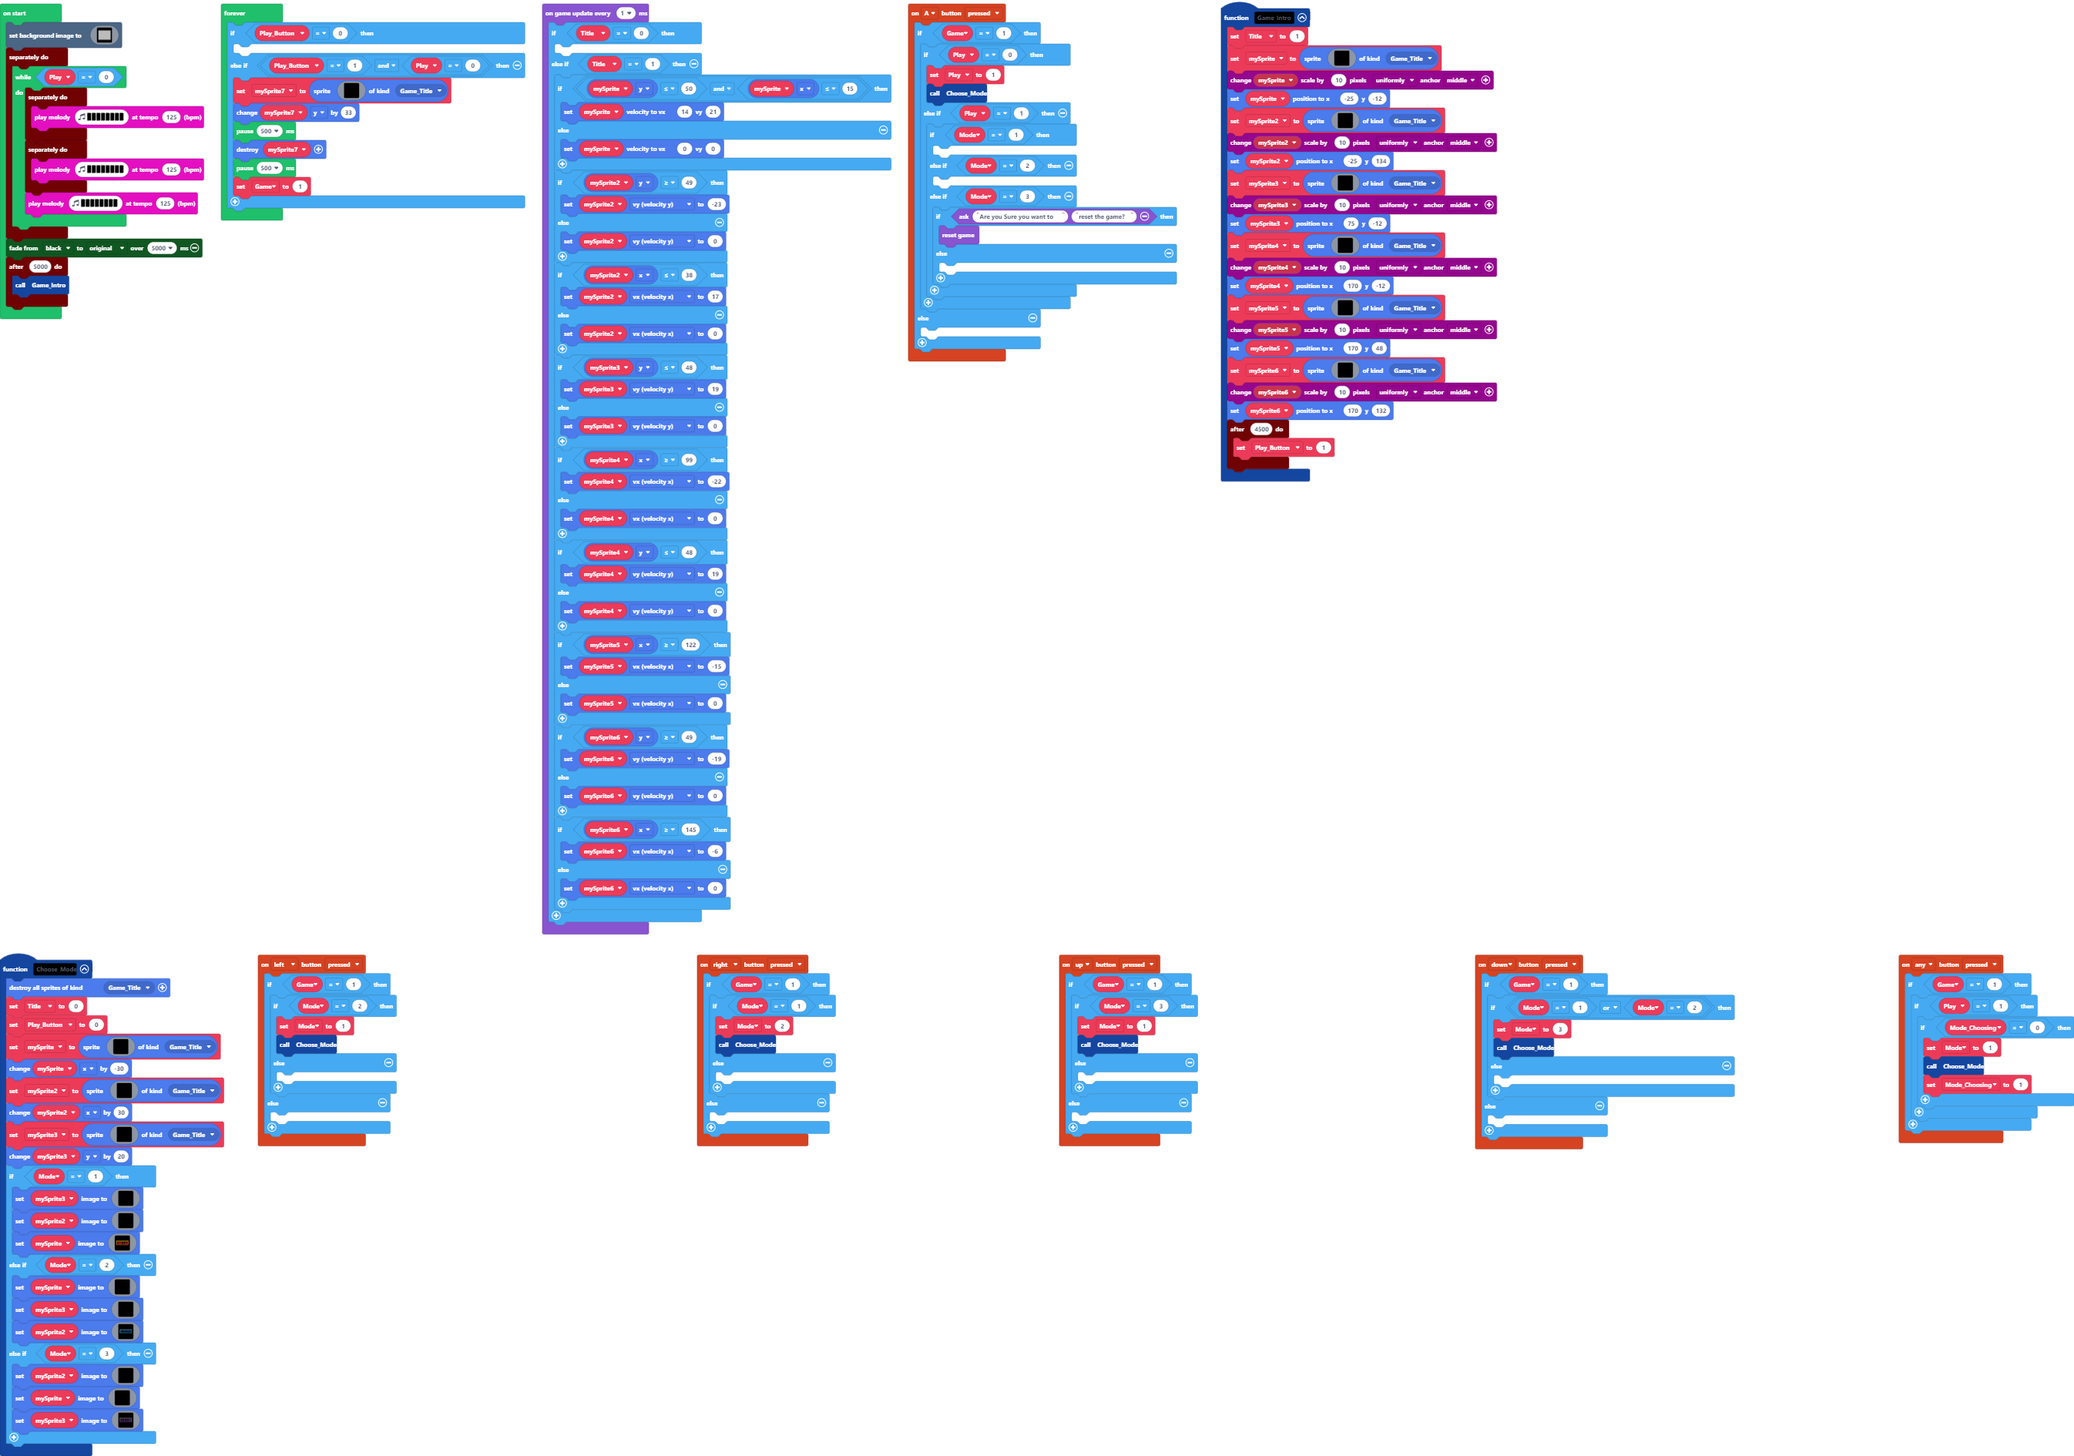
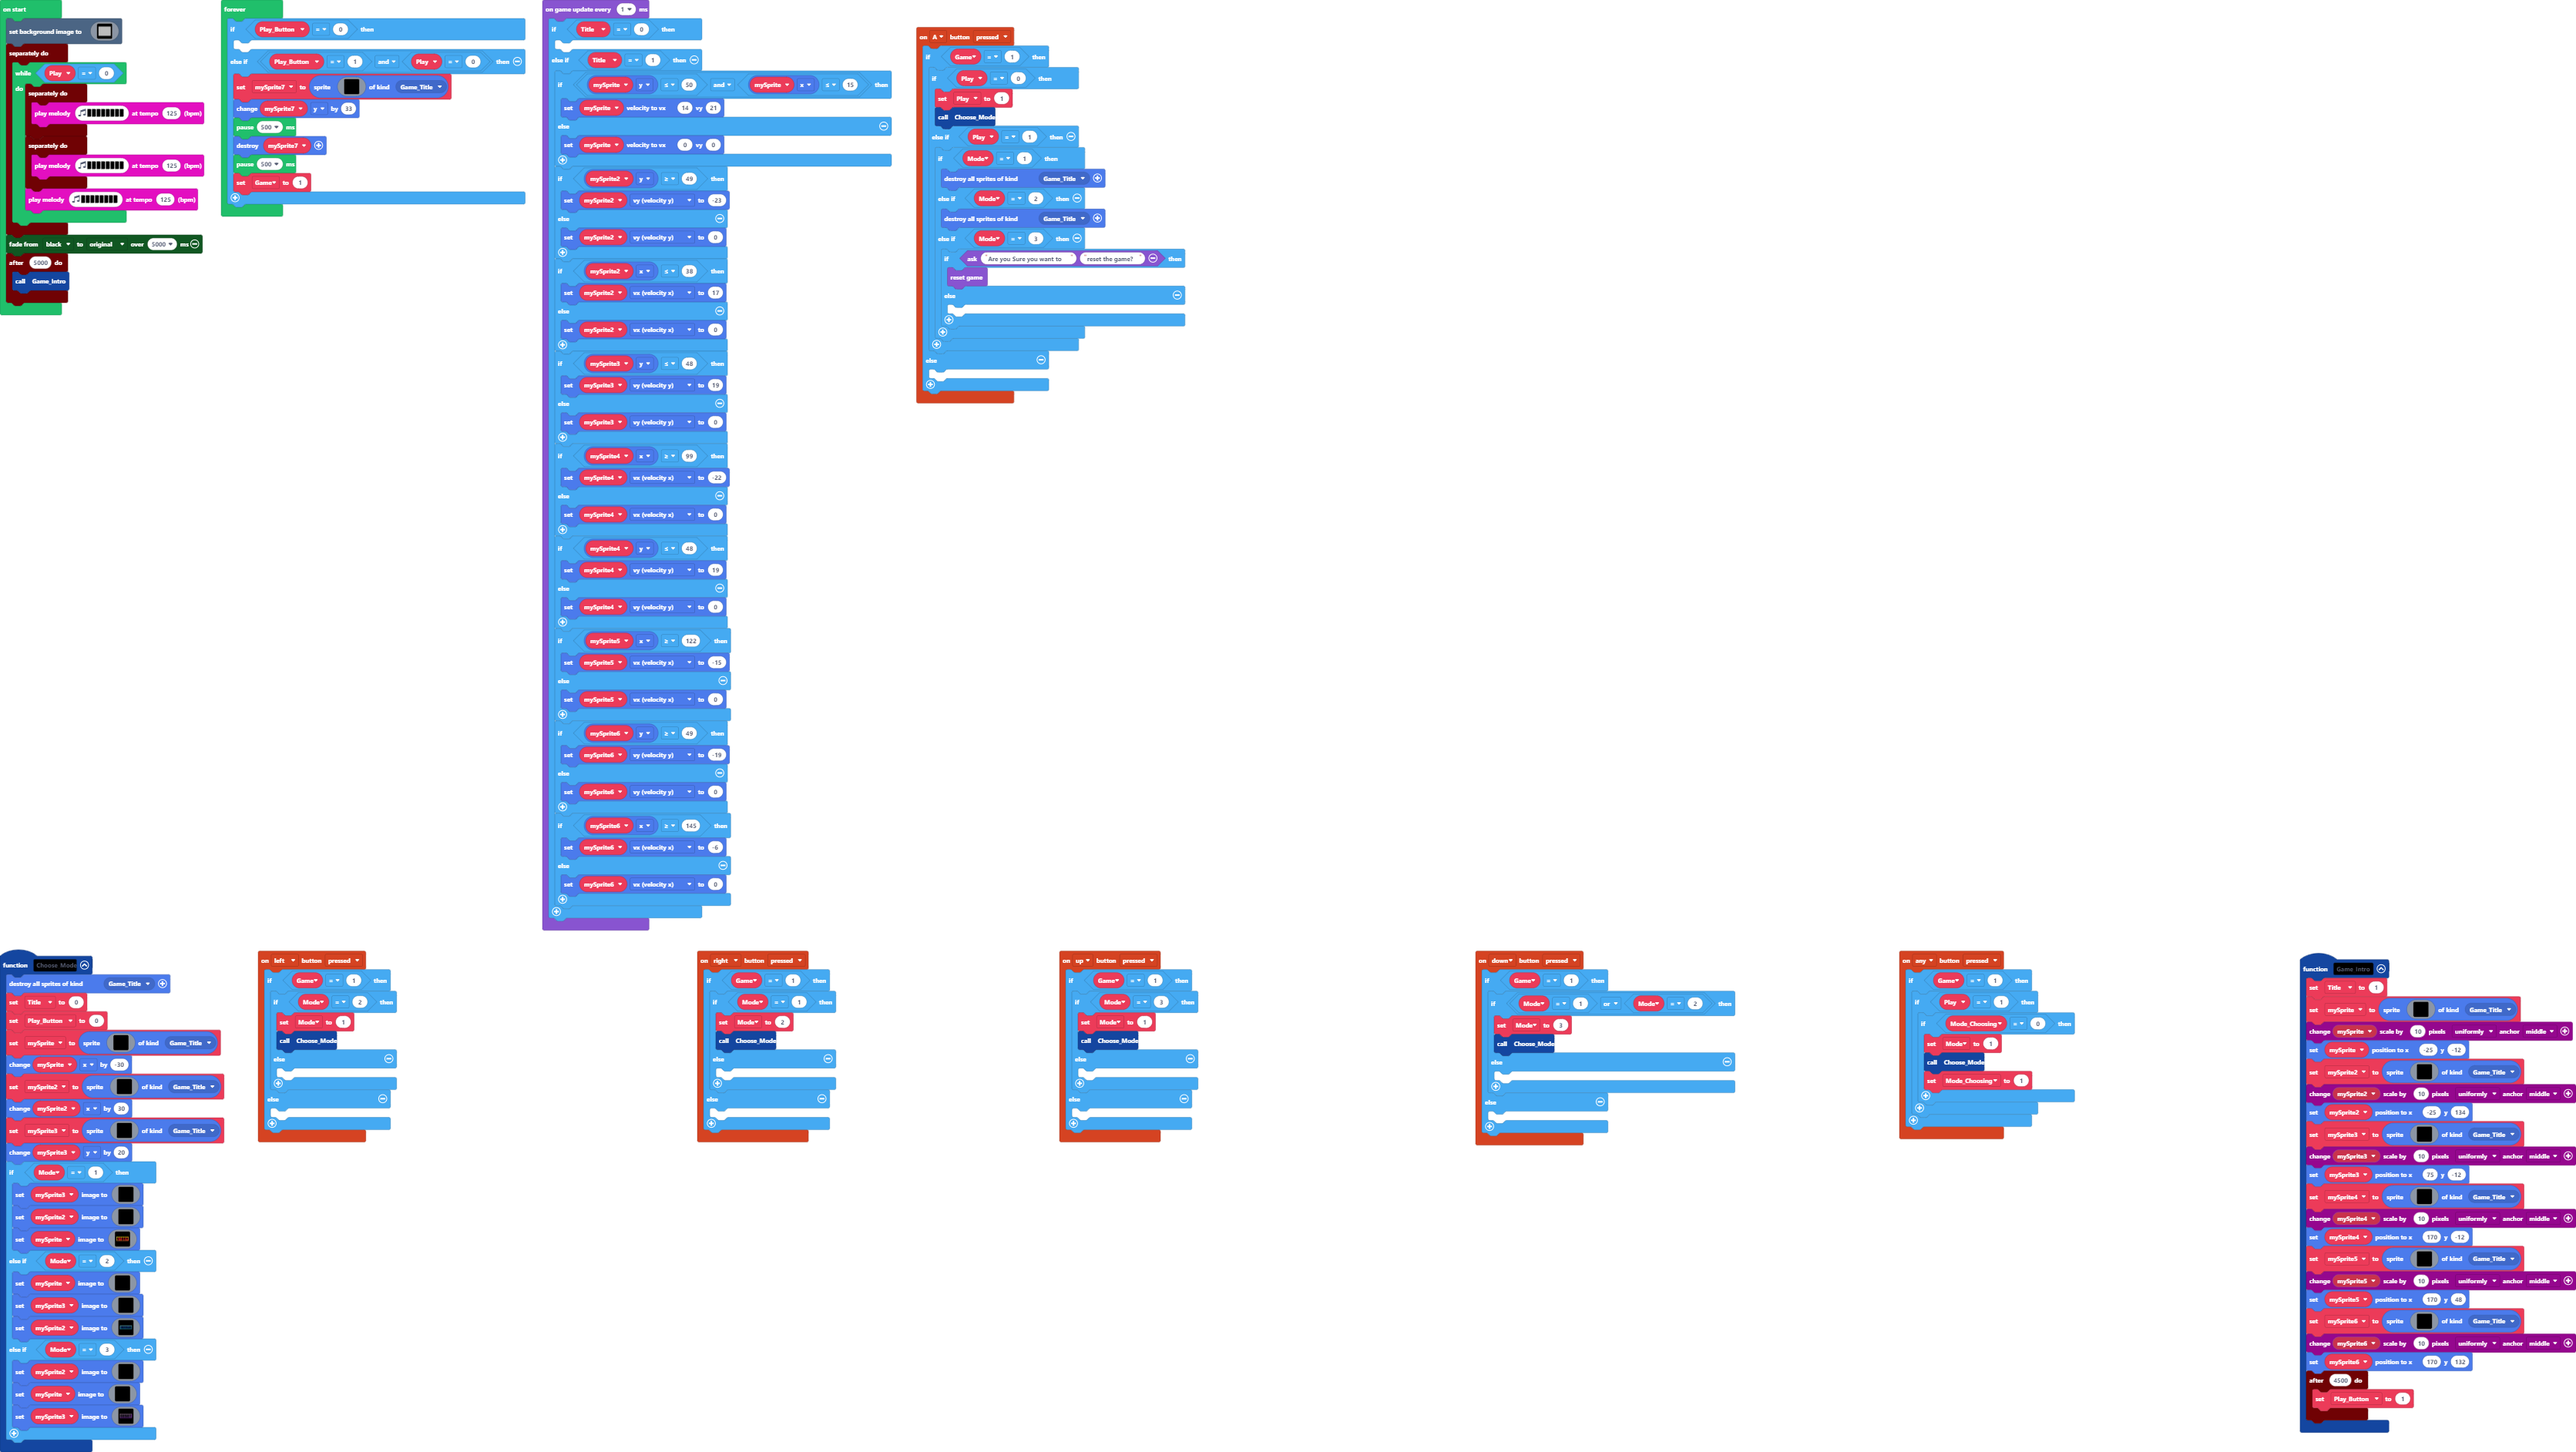
Update main.blocks, main.ts

diff --git a/main.ts b/main.ts
@@ -32,9 +32,9 @@ controller.A.onEvent(ControllerButtonEvent.Pressed, function () {
             Choose_Mode()
         } else if (Play == 1) {
             if (Mode == 1) {
-            	
+                sprites.destroyAllSpritesOfKind(SpriteKind.Game_Title)
             } else if (Mode == 2) {
-            	
+                sprites.destroyAllSpritesOfKind(SpriteKind.Game_Title)
             } else if (Mode == 3) {
                 if (game.ask("Are you Sure you want to", "reset the game?")) {
                     game.reset()
